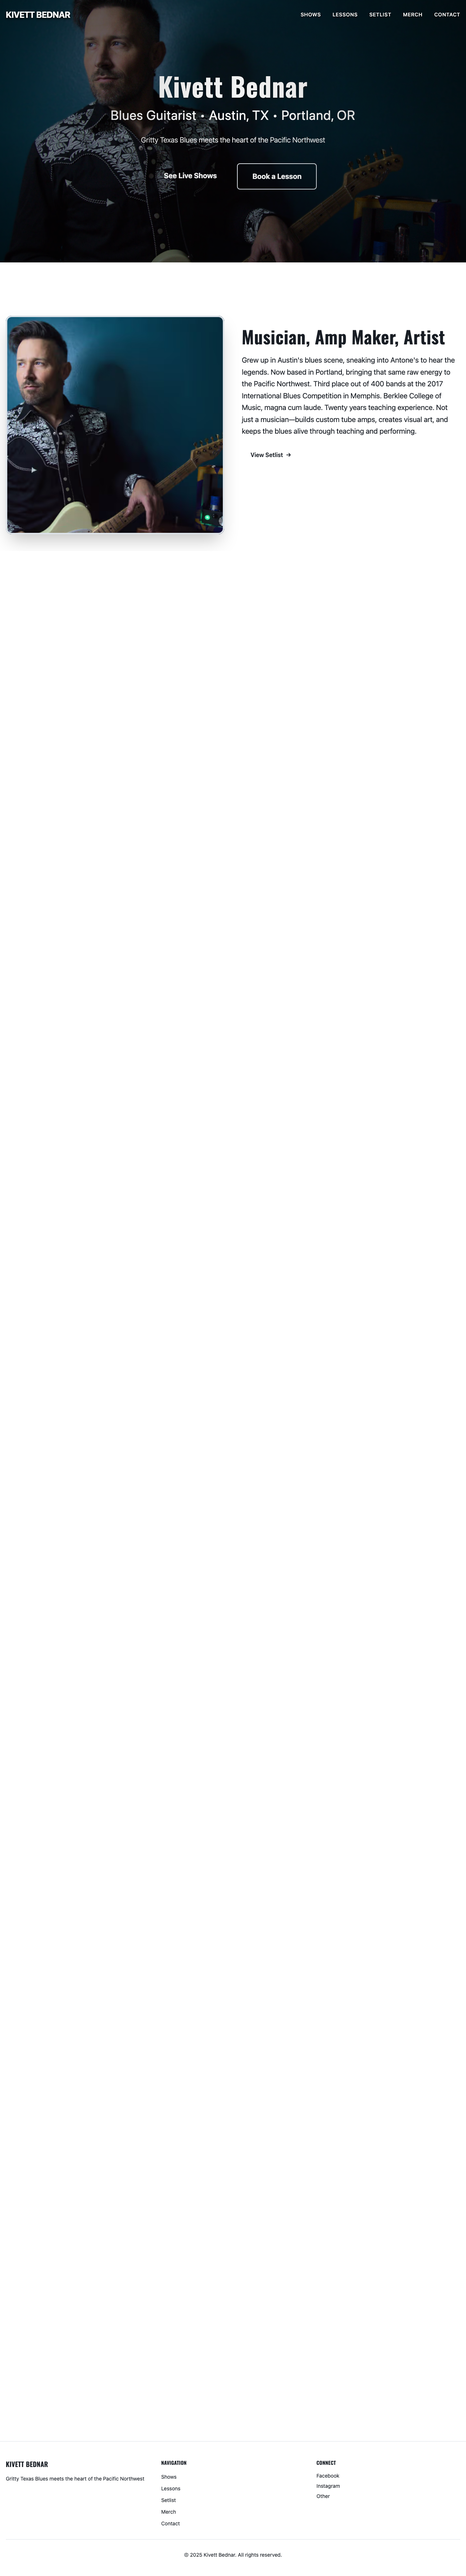
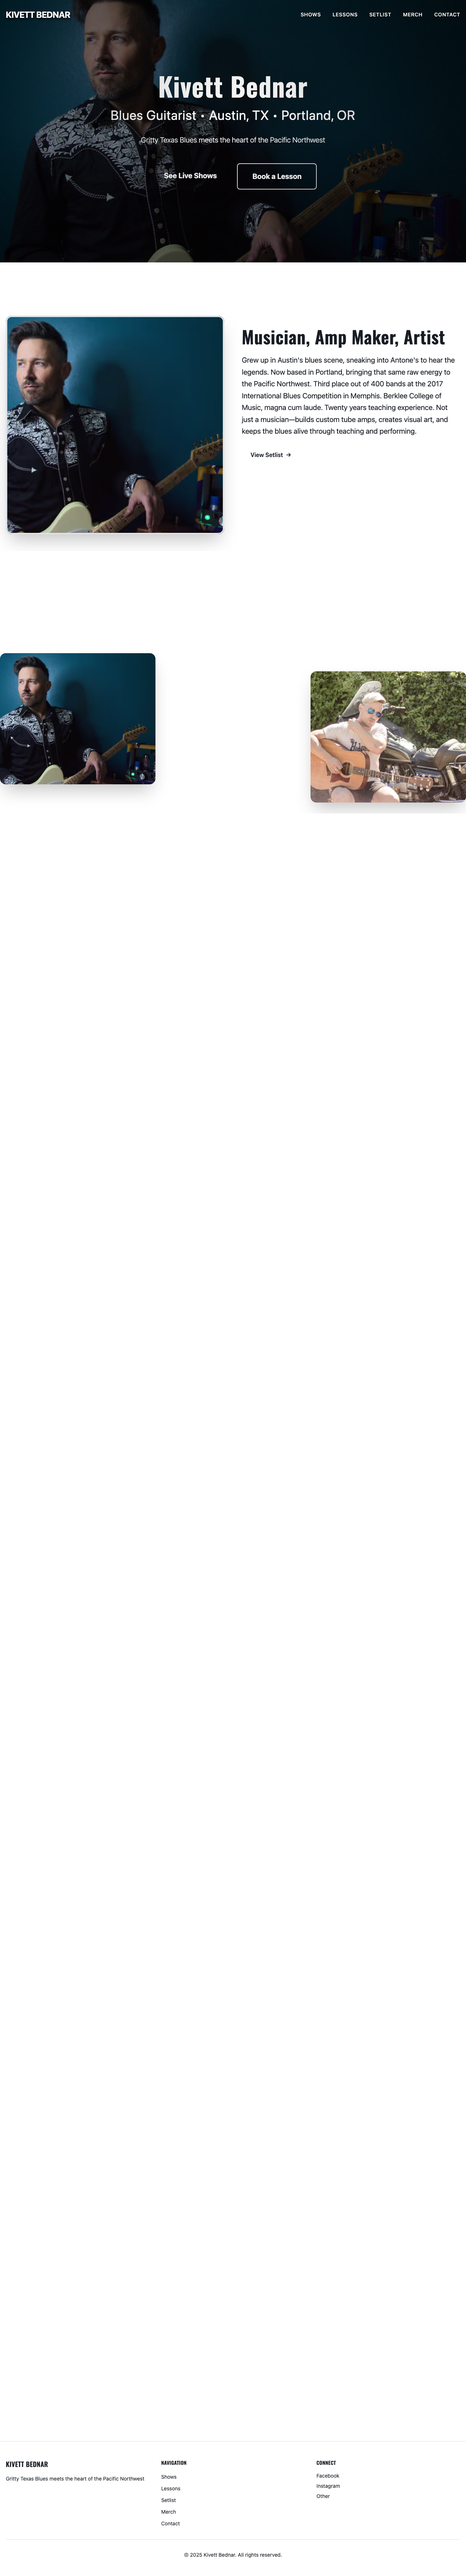
Fix album section field name mismatch
Query was using 'albumImage' but component expects 'albumCoverImage'.
This caused the album section to not render on production.

🤖 Generated with [Claude Code](https://claude.com/claude-code)

diff --git a/test-full-page.js b/test-full-page.js
@@ -1,0 +1,46 @@
+const { chromium } = require('playwright');
+
+(async () => {
+  const browser = await chromium.launch();
+  const page = await browser.newPage({ viewport: { width: 1920, height: 1080 } });
+
+  console.log('Testing full page https://kivett-bednar.vercel.app...\n');
+
+  await page.goto('https://kivett-bednar.vercel.app', { waitUntil: 'domcontentloaded', timeout: 60000 });
+  await page.waitForTimeout(5000);
+
+  // Take full page screenshot
+  await page.screenshot({ path: 'full-page.png', fullPage: true });
+  console.log('✓ Full page screenshot: full-page.png');
+
+  // Check sections
+  const sections = await page.locator('section').count();
+  console.log(`✓ Total sections: ${sections}`);
+
+  // Scroll to each major section and check
+  console.log('\nChecking sections:');
+
+  // Hero
+  console.log('✓ Hero section visible');
+
+  // Scroll to parallax
+  await page.evaluate(() => window.scrollTo(0, 1500));
+  await page.waitForTimeout(1000);
+  const parallaxText = await page.locator('h2:has-text("Gritty Texas Blues")').count();
+  console.log(`✓ Parallax section: ${parallaxText > 0 ? 'visible' : 'MISSING'}`);
+
+  // Scroll to album
+  await page.evaluate(() => window.scrollTo(0, 2500));
+  await page.waitForTimeout(1000);
+  const albumText = await page.locator('h2:has-text("Land of the Living")').count();
+  console.log(`✓ Album section: ${albumText > 0 ? 'visible' : 'MISSING'}`);
+
+  // Scroll to gallery
+  await page.evaluate(() => window.scrollTo(0, 4000));
+  await page.waitForTimeout(1000);
+  await page.screenshot({ path: 'gallery-full.png' });
+  console.log('✓ Gallery screenshot: gallery-full.png');
+
+  await browser.close();
+  console.log('\nDone!');
+})();

diff --git a/sanity/lib/queries.ts b/sanity/lib/queries.ts
@@ -97,7 +97,7 @@ export const homePageQuery = defineQuery(`*[_type == "homePage"][0]{
   albumYear,
   albumFormat,
   albumDescription,
-  albumImage{asset->{_id, url}, alt},
+  albumCoverImage{asset->{_id, url}, alt},
   albumFeatures,
   ctaLessonsHeading,
   ctaLessonsText,
